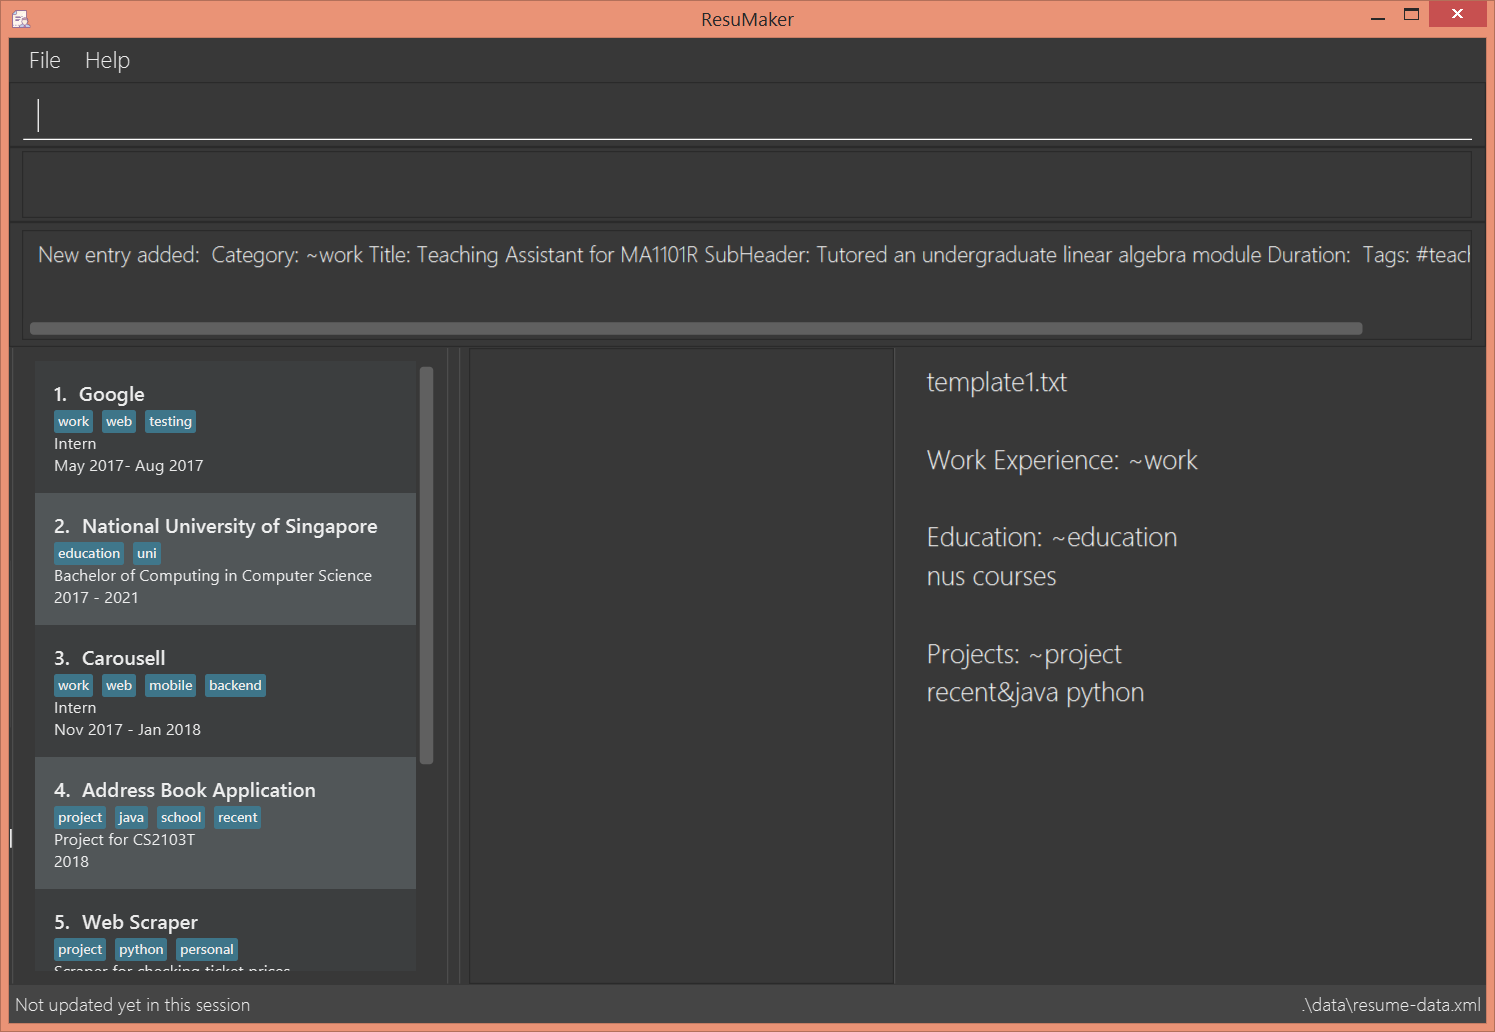
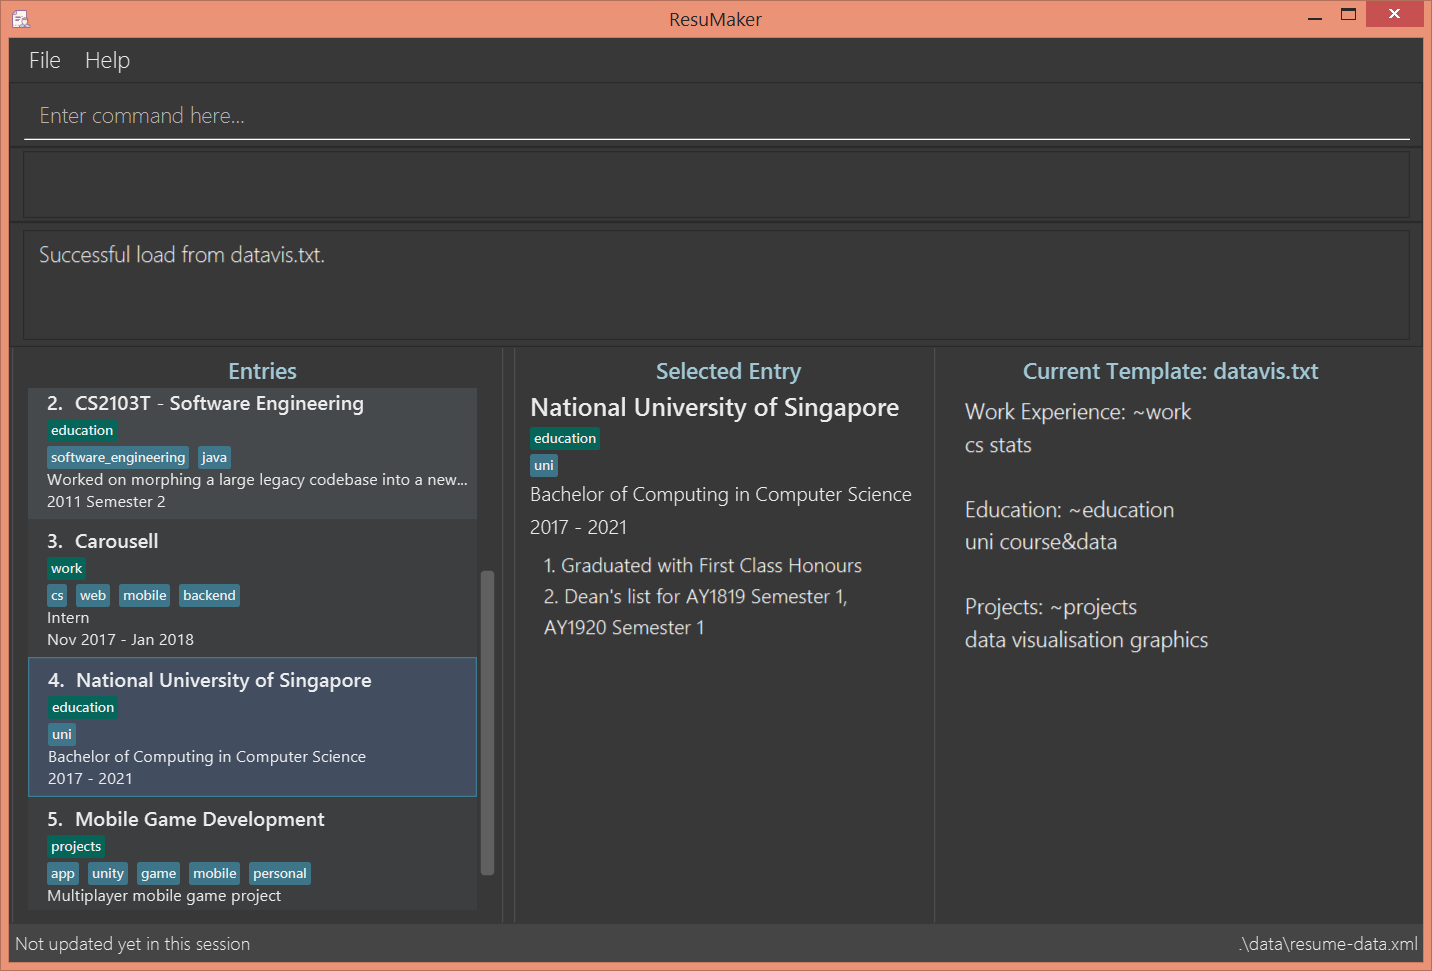
UI improvements and slight Template changes (#329)
* Changed UI column headings

* Make ExpandedEntry display using labels rather than only one TextArea

* Add spacing between category and other tags

* Standardize spacing for headers/columns

* Changed CSS

* Make template show filepath in UI heading

* Make Model retain current template if load failed

* Modify UI

* Modify UI screenshot

* Fix checkstyle

* Fix test

* Remove extra line

diff --git a/src/main/resources/view/DarkTheme.css b/src/main/resources/view/DarkTheme.css
@@ -104,7 +104,7 @@
 }
 
 .list-cell:filled:odd {
-    -fx-background-color: #515658;
+    -fx-background-color: #46494b;
 }
 
 .list-cell:filled:selected {
@@ -133,8 +133,7 @@
 }
 
 .cell_list_label {
-    -fx-font-family: "Arial Black";
-    -fx-font-weight: bold;
+    -fx-font-family: "Segoe UI Semibold";
     -fx-font-size: 18px;
     -fx-text-fill: lightblue;
 }
@@ -229,12 +228,52 @@
     -fx-background-color: black;
 }
 
+/* Template Panel */
+
 .template-panel-display {
     -fx-background-color: transparent;
-    -fx-font-family: "Segoe UI Light";
-    -fx-font-size: 16pt;
+    -fx-font-family: "Segoe UI Semilight";
+    -fx-font-size: 13pt;
     -fx-text-fill: white;
 }
+
+#templatePanel .content {
+    -fx-background-color: transparent, #383838, transparent, #383838;
+    -fx-background-radius: 0;
+}
+
+/* Expanded Entry Panel */
+
+.expanded-entry-display {
+    -fx-background-color: transparent;
+    -fx-font-family: "Segoe UI Semilight";
+    -fx-font-size: 12pt;
+    -fx-text-fill: white;
+}
+
+.expanded-title {
+    -fx-font-family: "Segoe UI Semibold";
+    -fx-font-size: 20px;
+    -fx-text-fill: white;
+}
+
+.expanded-body-text {
+    -fx-font-family: "Segoe UI Semilight";
+    -fx-font-size: 16px;
+    -fx-text-fill: white;
+}
+
+.expanded-category-tag {
+    -fx-text-fill: white;
+    -fx-font-size: 15;
+}
+
+.expanded-tags {
+    -fx-text-fill: white;
+    -fx-font-size: 13;
+}
+
+
 
 /*
  * Metro style Push Button
@@ -362,11 +401,6 @@
 }
 
 #resultDisplay .content {
-    -fx-background-color: transparent, #383838, transparent, #383838;
-    -fx-background-radius: 0;
-}
-
-#templatePanel .content {
     -fx-background-color: transparent, #383838, transparent, #383838;
     -fx-background-radius: 0;
 }

diff --git a/src/main/java/seedu/address/ui/ExpandedEntryPanel.java b/src/main/java/seedu/address/ui/ExpandedEntryPanel.java
@@ -8,10 +8,13 @@ import javafx.application.Platform;
 import javafx.beans.property.SimpleStringProperty;
 import javafx.beans.property.StringProperty;
 import javafx.fxml.FXML;
+import javafx.scene.control.Label;
 import javafx.scene.control.TextArea;
+import javafx.scene.layout.FlowPane;
 import javafx.scene.layout.Region;
 import seedu.address.commons.core.LogsCenter;
 import seedu.address.commons.events.ui.UpdateExpandedEntryRequestEvent;
+import seedu.address.model.entry.ResumeEntry;
 
 /**
  * An UI Part to show the specified expanded entry.
@@ -24,20 +27,44 @@ public class ExpandedEntryPanel extends UiPart<Region> {
     private final StringProperty displayed = new SimpleStringProperty("");
 
     @FXML
+    private Label title;
+    @FXML
+    private Label subtitle;
+    @FXML
+    private Label duration;
+    @FXML
+    private Label categoryTag;
+    @FXML
+    private FlowPane tags;
+    @FXML
     private TextArea expandedEntryText;
+
 
     public ExpandedEntryPanel() {
         super(FXML);
         expandedEntryText.textProperty().bind(displayed);
         registerAsAnEventHandler(this);
-        // set word wrap
+        title.setWrapText(true);
+        subtitle.setWrapText(true);
+        duration.setWrapText(true);
+        categoryTag.setVisible(false); // prevent bug where empty tag shows before an entry is selected
         expandedEntryText.setWrapText(true);
     }
 
     @Subscribe
     private void handleUpdateExpandedEntryRequestEvent(UpdateExpandedEntryRequestEvent event) {
         logger.info(LogsCenter.getEventHandlingLogMessage(event));
-        Platform.runLater(() -> displayed.setValue(event.getUpdatedEntry().toString()));
-    }
 
+        Platform.runLater(() -> {
+            ResumeEntry entry = event.getUpdatedEntry();
+            title.setText(entry.getEntryInfo().getTitle());
+            subtitle.setText(entry.getEntryInfo().getSubHeader());
+            duration.setText(entry.getEntryInfo().getDuration());
+            categoryTag.setVisible(true);
+            categoryTag.setText(entry.getCategory().cateName);
+            tags.getChildren().clear();
+            entry.getTags().forEach(tag -> tags.getChildren().add(new Label(tag.tagName)));
+            displayed.setValue(entry.getDescription().toString());
+        });
+    }
 }

diff --git a/src/main/java/seedu/address/ui/TemplatePanel.java b/src/main/java/seedu/address/ui/TemplatePanel.java
@@ -8,10 +8,12 @@ import javafx.application.Platform;
 import javafx.beans.property.SimpleStringProperty;
 import javafx.beans.property.StringProperty;
 import javafx.fxml.FXML;
+import javafx.scene.control.Label;
 import javafx.scene.control.TextArea;
 import javafx.scene.layout.Region;
 import seedu.address.commons.core.LogsCenter;
 import seedu.address.commons.events.storage.TemplateLoadedEvent;
+import seedu.address.model.template.Template;
 
 /**
  * A ui for the display of the loaded template.
@@ -23,6 +25,8 @@ public class TemplatePanel extends UiPart<Region> {
 
     private final StringProperty displayed = new SimpleStringProperty("");
 
+    @FXML
+    private Label templateLabel;
     @FXML
     private TextArea templatePanelDisplay;
 
@@ -37,7 +41,11 @@ public class TemplatePanel extends UiPart<Region> {
     @Subscribe
     private void handleTemplateLoadedEvent(TemplateLoadedEvent event) {
         logger.info(LogsCenter.getEventHandlingLogMessage(event));
-        Platform.runLater(() -> displayed.setValue(event.getTemplate().toString()));
+        Platform.runLater(() -> {
+            Template t = event.getTemplate();
+            templateLabel.setText(String.format("Current Template: %s", t.getFilepath()));
+            displayed.setValue(t.toString());
+        });
     }
 
 }

diff --git a/src/main/java/seedu/address/model/template/Template.java b/src/main/java/seedu/address/model/template/Template.java
@@ -21,11 +21,18 @@ public class Template {
     private static final String TEMPLATE_LINE_REGEX = "^[^:]+:~([^:\\s])+:[^:]*$";
 
     private ArrayList<TemplateSection> sections;
-    private String stringRepresentation = "";
+    // filepath string, purely for display purposes
+    private String filepath;
+    private String stringRepresentation;
 
     public Template(String filepath) {
+        this.filepath = filepath;
         sections = new ArrayList<TemplateSection>();
-        stringRepresentation = filepath + "\n\n";
+        stringRepresentation = "";
+    }
+
+    public String getFilepath() {
+        return filepath;
     }
 
     /**
@@ -147,6 +154,7 @@ public class Template {
 
         // state check
         Template other = (Template) obj;
-        return stringRepresentation.equals(other.stringRepresentation);
+        return filepath.equals(other.filepath)
+                && stringRepresentation.equals(other.stringRepresentation);
     }
 }

diff --git a/src/main/java/seedu/address/model/ModelManager.java b/src/main/java/seedu/address/model/ModelManager.java
@@ -328,6 +328,6 @@ public class ModelManager extends ComponentManager implements Model {
     public void handleTemplateLoadingExceptionEvent(TemplateLoadingExceptionEvent event) {
         logger.info(LogsCenter.getEventHandlingLogMessage(event, "Exception when attempting to load template from "
                 + event.filepath.toString()));
-        loadedTemplate = null;
+        // if there was a previous template, it remains as the active one
     }
 }

diff --git a/src/test/java/seedu/address/ui/ExpandedEntryPanelTest.java b/src/test/java/seedu/address/ui/ExpandedEntryPanelTest.java
@@ -37,7 +37,7 @@ public class ExpandedEntryPanelTest extends GuiUnitTest {
         // new result received
         postNow(NEW_RESULT_EVENT_STUB);
         guiRobot.pauseForHuman();
-        assertEquals(WORK_FACEBOOK.toString(), expandedEntryPanelHandle.getText());
+        assertEquals(WORK_FACEBOOK.getDescription().toString(), expandedEntryPanelHandle.getText());
     }
 
 }
